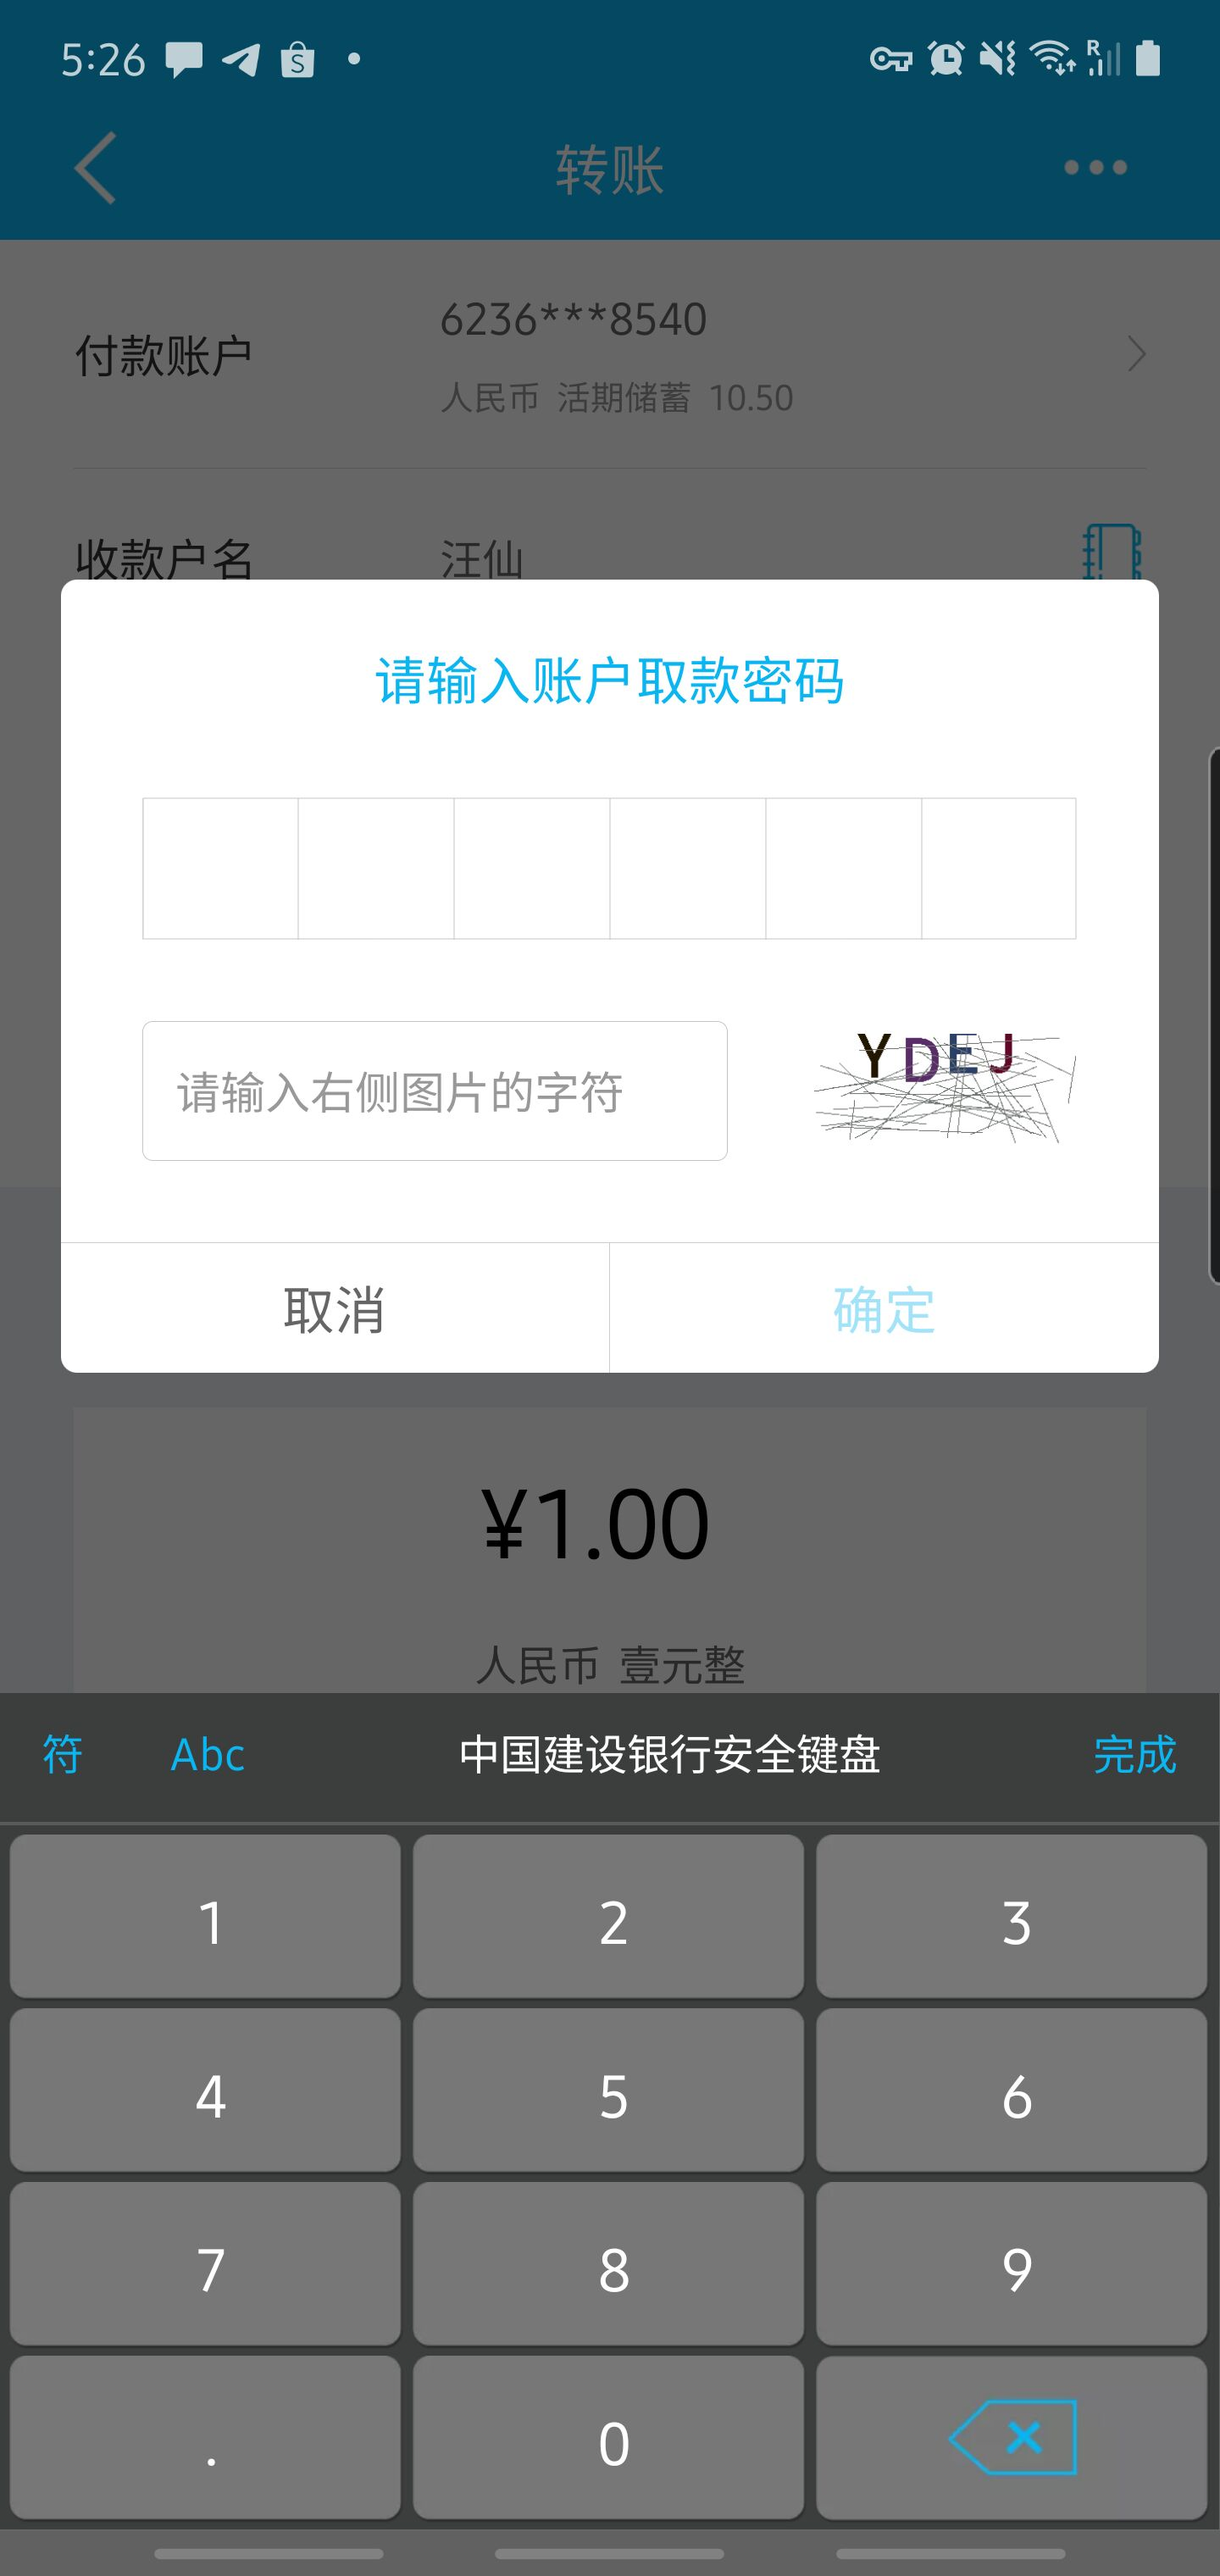
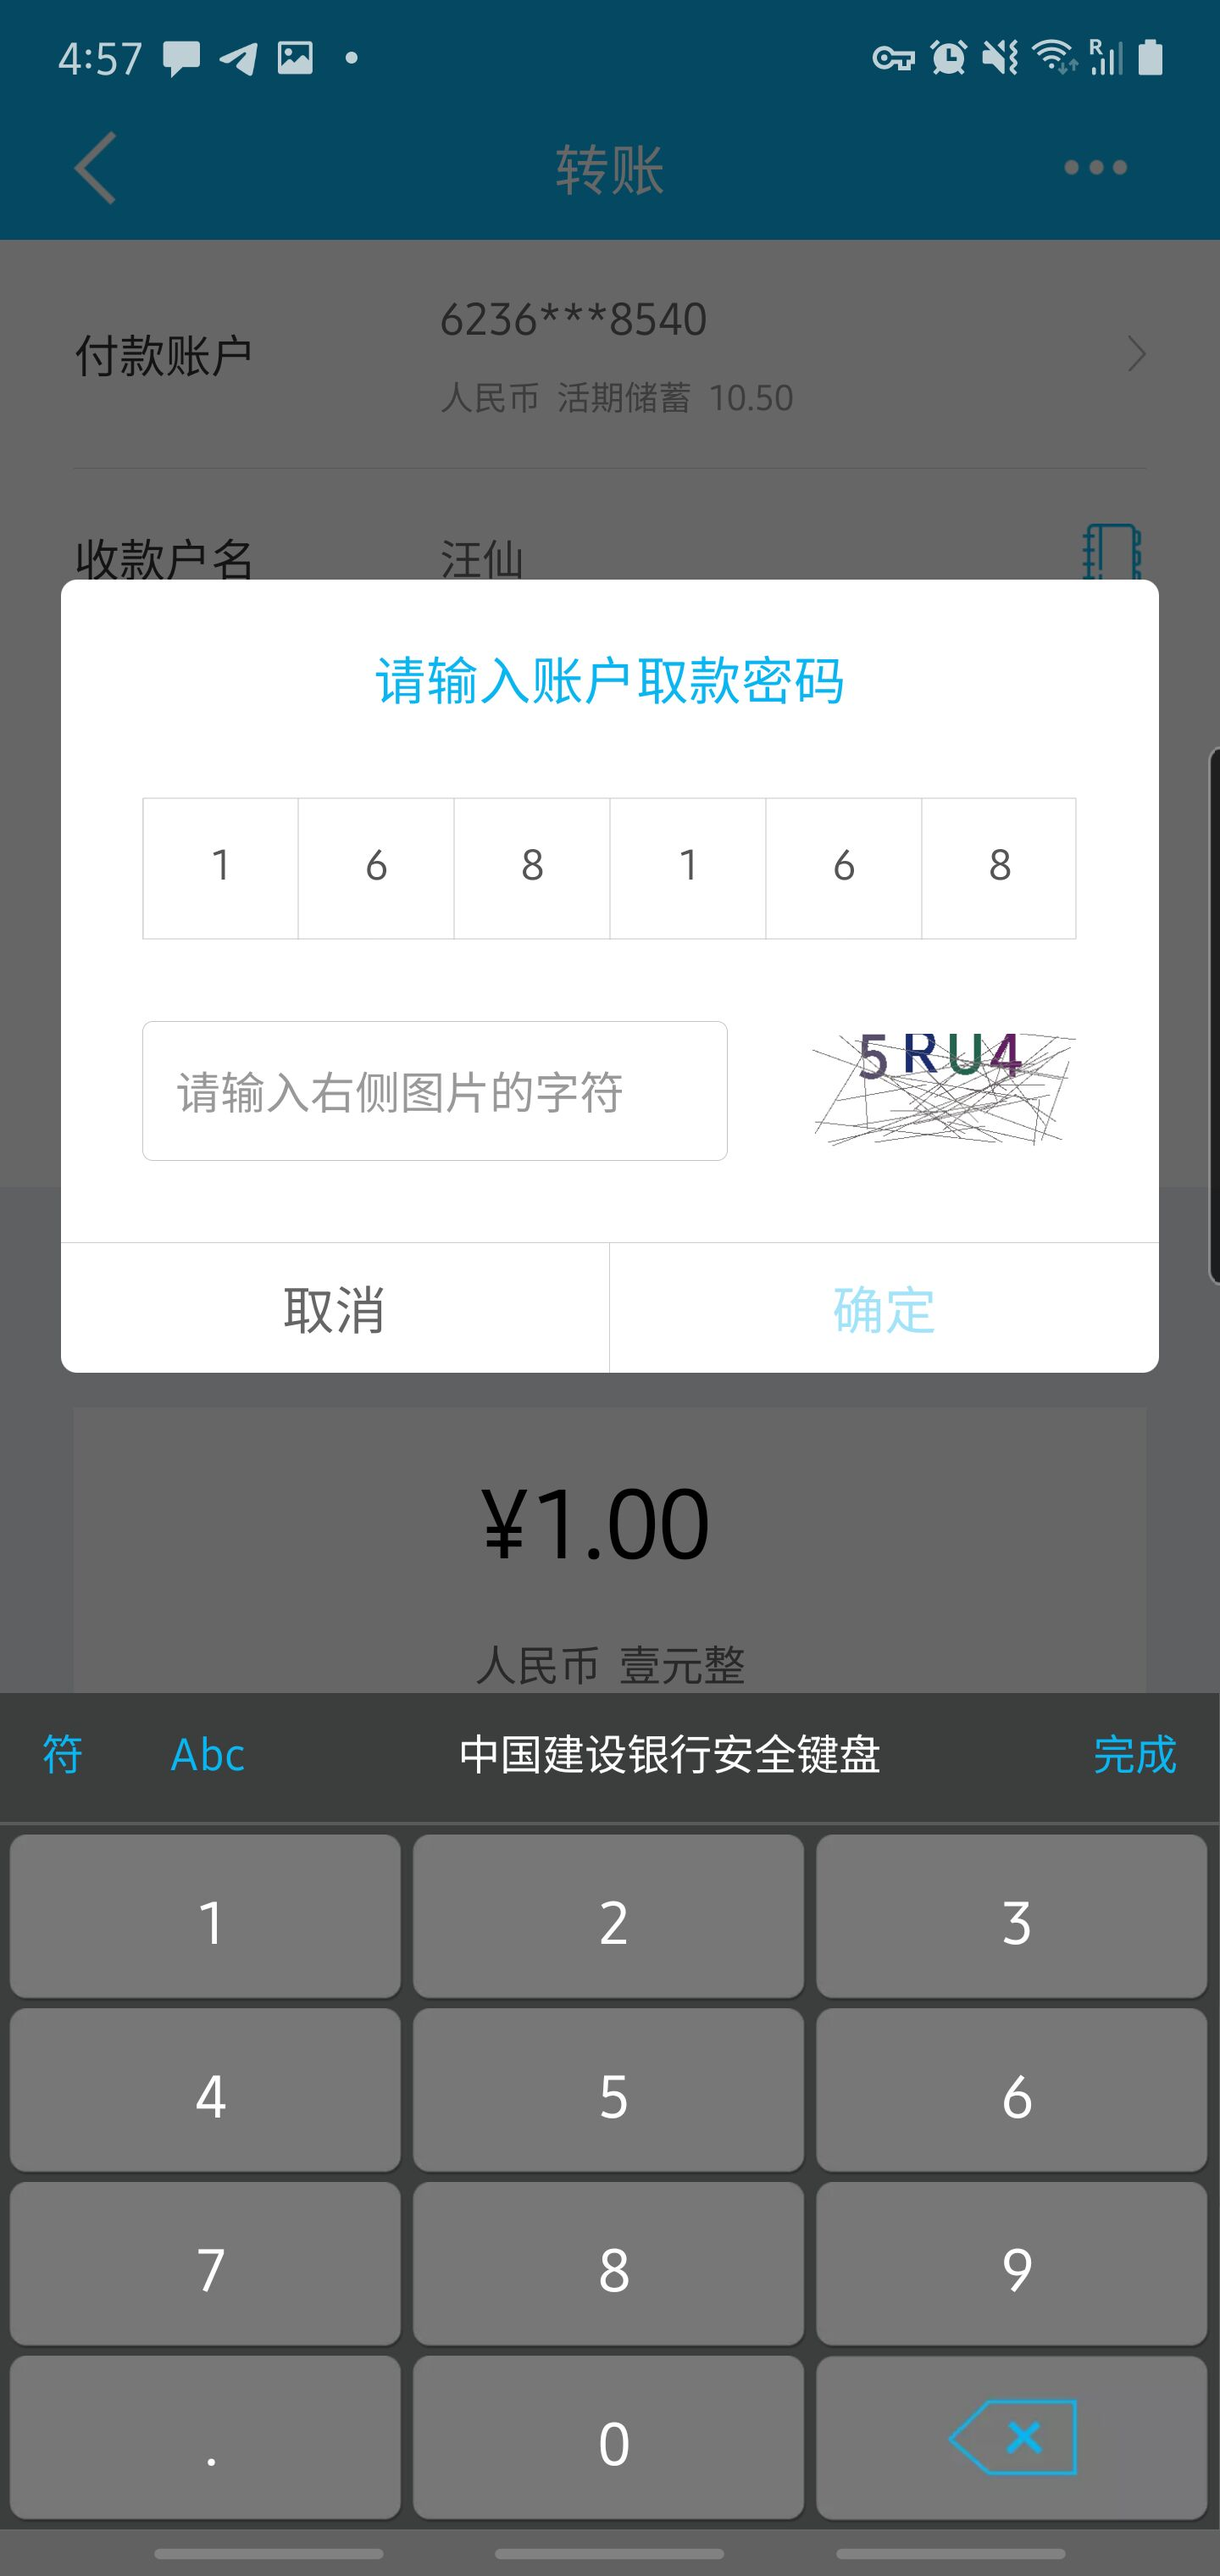
pc ok

diff --git a/bots/ccb.py b/bots/ccb.py
@@ -2,12 +2,12 @@
 import time
 import sys
 from bots.verification.verification_code import VerificationCode
+
 sys.path.append("..")
 from models import Account, Transferee
 
 package = 'com.chinamworld.main'
 activity = 'com.ccb.start.MainActivity'
-
 
 # def connect():
 #     connection = u2.connect('0.0.0.0')
@@ -18,61 +18,71 @@ activity = 'com.ccb.start.MainActivity'
 acc = Account()
 trans = Transferee()
 
+
 def start(self):
-    runComponent = package + '/' + activity
+    # runComponent = package + '/' + activity
     self.app_start(package)
     return self.app_wait(package)  # 等待应用运行, return pid(int)
 
 
 def transfer(self, amount, account, name, bank_name, password, withdraw_password):
     # 转账
-    waitRes = self.wait_activity(activity, timeout=20)
-    acc.login_pwd = password
-    acc.payment_pwd = withdraw_password
-    trans.amount = amount
-    trans.account = account
-    trans.name = name
-    trans.bank_name = bank_name
-    print('waitRes %s' % waitRes)
-    if waitRes:
-        self(resourceId="com.chinamworld.main:id/close").click_exists(timeout=3.0)
-        self(resourceId="com.chinamworld.main:id/main_home_smart_transfer").click()
-        waitTransferHomeAct = self.wait_activity("com.ccb.transfer.transfer_home.view.TransferHomeAct", timeout=20)
+    def do_trans():
+        waitRes = self.wait_activity(activity, timeout=20)
+        acc.login_pwd = password
+        acc.payment_pwd = withdraw_password
+        trans.amount = amount
+        trans.account = account
+        trans.name = name
+        trans.bank_name = bank_name
+        print('waitRes %s' % waitRes)
+        if waitRes:
+            self(resourceId="com.chinamworld.main:id/close").click_exists(timeout=3.0)
+            self(resourceId="com.chinamworld.main:id/main_home_smart_transfer").click()
+            waitTransferHomeAct = self.wait_activity("com.ccb.transfer.transfer_home.view.TransferHomeAct", timeout=20)
 
-        if waitTransferHomeAct:
-            self.xpath(
-                '//*[@resource-id="com.chinamworld.main:id/grid_function"]/android.widget.LinearLayout[1]').click()
-            LoginActivity = self.wait_activity("com.ccb.framework.security.login.internal.view.LoginActivity",
-                                               timeout=20)
-            if LoginActivity:
-                self(resourceId="com.chinamworld.main:id/et_password").click()
-                # self.send_keys("aa168168", clear=True)
-                for i in acc.login_pwd:
-                    self(text=i).click()
-                self(resourceId="com.chinamworld.main:id/btn_confirm").click_gone(maxretry=10, interval=1.0)
-                SmartTransferMainAct = self.wait_activity("com.ccb.transfer.smarttransfer.view.SmartTransferMainAct",
-                                                          timeout=20)
-                if SmartTransferMainAct:
-                    self(resourceId="com.chinamworld.main:id/et_cash_name").click()
-                    self(resourceId="com.chinamworld.main:id/et_cash_name").set_text(trans.name)
-                    self(resourceId="com.chinamworld.main:id/et_collection_account").click()
-                    self(resourceId="com.chinamworld.main:id/et_collection_account").set_text(trans.account)
-                    self(resourceId="com.chinamworld.main:id/tv_bank").click()
-                    self(resourceId="com.chinamworld.main:id/tv_bank").click()
+            if waitTransferHomeAct:
+                self.xpath(
+                    '//*[@resource-id="com.chinamworld.main:id/grid_function"]/android.widget.LinearLayout[1]').click()
+                LoginActivity = self.wait_activity("com.ccb.framework.security.login.internal.view.LoginActivity",
+                                                   timeout=20)
+                if LoginActivity:
+                    self(resourceId="com.chinamworld.main:id/et_password").click()
+                    # self.send_keys("aa168168", clear=True)
+                    for i in acc.login_pwd:
+                        self(text=i).click()
+                    self(resourceId="com.chinamworld.main:id/btn_confirm").click_gone(maxretry=10, interval=1.0)
+                    SmartTransferMainAct = self.wait_activity(
+                        "com.ccb.transfer.smarttransfer.view.SmartTransferMainAct",
+                        timeout=20)
+                    if SmartTransferMainAct:
+                        self(resourceId="com.chinamworld.main:id/et_cash_name").click()
+                        self(resourceId="com.chinamworld.main:id/et_cash_name").set_text(trans.name)
+                        self(resourceId="com.chinamworld.main:id/et_collection_account").click()
+                        self(resourceId="com.chinamworld.main:id/et_collection_account").set_text(trans.account)
+                        self(resourceId="com.chinamworld.main:id/tv_bank").click()
+                        self(resourceId="com.chinamworld.main:id/tv_bank").click()
 
-                    if self(text="热门银行").exists(timeout=20):
-                        bank_btn = self(resourceId="com.chinamworld.main:id/title", text=trans.bank_name)
-                        if bank_btn.click_gone(maxretry=20, interval=1.0):
-                            self(resourceId="com.chinamworld.main:id/tv_transfer_way").click()
-                            if self(text="实时转账").exists(timeout=20):
-                                self(resourceId="com.chinamworld.main:id/bottom_selector_tv", text="实时转账").click()
-                                self(resourceId="com.chinamworld.main:id/et_tran_amount").click()
-                                self.send_keys(trans.amount, clear=True)
-                                self.press("back")
-                                self(resourceId="com.chinamworld.main:id/rl_tran_mark").click()
-                                self.send_keys("今天发的1元钱", clear=True)
-                                self.press("back")
-                                self(resourceId="com.chinamworld.main:id/btn_right1").click()
+                        if self(text="热门银行").exists(timeout=20):
+                            bank_btn = self(resourceId="com.chinamworld.main:id/title", text=trans.bank_name)
+                            if bank_btn.click_gone(maxretry=20, interval=1.0):
+                                self(resourceId="com.chinamworld.main:id/tv_transfer_way").click()
+                                if self(text="实时转账").exists(timeout=20):
+                                    self(resourceId="com.chinamworld.main:id/bottom_selector_tv", text="实时转账").click()
+                                    self(resourceId="com.chinamworld.main:id/et_tran_amount").click()
+                                    self.send_keys(trans.amount, clear=True)
+                                    self.press("back")
+                                    self(resourceId="com.chinamworld.main:id/rl_tran_mark").click()
+                                    self.send_keys("今天发的1元钱", clear=True)
+                                    self.press("back")
+                                    self(resourceId="com.chinamworld.main:id/btn_right1").click()
+
+    if self(text="是否需要向银行卡").exists(timeout=5):
+        float_win = self(resourceId="com.chinamworld.main:id/btn_cancel").click_gone(maxretry=10, interval=1.0)
+        if float_win:
+            do_trans()
+    else:
+        do_trans()
 
 
 def inquire_balance(self, password):
@@ -102,22 +112,38 @@ def post_sms(self, sms):
     self.send_keys(sms, clear=True)
     self(resourceId="com.chinamworld.main:id/btn_confirm").click()
     if self(resourceId="com.chinamworld.main:id/native_graph_iv").exists(timeout=20):
-        # self(resourceId="com.chinamworld.main:id/et_code").click()
-        # self.send_keys(acc.payment_pwd, clear=True)
-        def get_code():
-            time.sleep(1)
-            self.screenshot("verification.jpg")
-            vc = VerificationCode()
-            return vc.image_str()
 
-        code = get_code()
-        while get_code() == "":
-            get_code()
-        print(code)
-        # self(resourceId="com.chinamworld.main:id/native_graph_iv").click()
-        # self.send_keys(code, clear=True)
-        # self(resourceId="com.chinamworld.main:id/btn_confirm").click()
-    # return 0
+        def put_code():
+            def get_code():
+                time.sleep(1)
+                self(resourceId="com.chinamworld.main:id/native_graph_iv").click()
+                time.sleep(1)
+                info = self(resourceId="com.chinamworld.main:id/native_graph_iv").info
+                x = info['bounds']['left']
+                y = info['bounds']['top']
+                self.screenshot("verification.jpg")
+                vc = VerificationCode(x, y, 313, 165)
+                return vc.image_str()
+
+            code = get_code()
+            while code == "":
+                time.sleep(3)
+                code = get_code()
+            print(code)
+            time.sleep(2)
+            self(resourceId="com.chinamworld.main:id/native_graph_et").click()
+            self(resourceId="com.chinamworld.main:id/default_row_two_1").click()
+            self.send_keys(code, clear=True)
+            time.sleep(2)
+            self(resourceId="com.chinamworld.main:id/et_code").click()
+            self.send_keys(acc.payment_pwd, clear=True)
+
+            if self(resourceId="com.chinamworld.main:id/btn_confirm").click_gone(maxretry=10, interval=1.0):
+                return 0
+            else:
+                put_code()
+
+        put_code()
 
 
 def stop(self):

diff --git a/bots/verification/verification_code.py b/bots/verification/verification_code.py
@@ -1,3 +1,4 @@
+# coding: utf-8
 import re  # 用于正则
 
 from PIL import Image  # 用于打开图片和对图片处理
@@ -21,14 +22,19 @@ class VerificationCode:
         self.height = height
 
     def get_pictures(self):
-        page_snap_obj = Image.open('../../verification.jpg')
+        page_snap_obj = Image.open('verification.jpg')
+        # page_snap_obj = Image.open('pictures.jpg')
         time.sleep(1)
         # location = img.location
         # size = img.size  # 获取验证码的大小参数
-        left = 959
-        top = 1205
-        right = left + 313
-        bottom = top + 165
+        # left = 959
+        # top = 1205
+        # right = left + 313
+        # bottom = top + 165
+        left = self.x
+        top = self.y
+        right = left + self.width
+        bottom = top + self.height
         image_obj = page_snap_obj.crop((left, top, right, bottom))  # 按照验证码的长宽，切割验证码
         image_obj.show()  # 打开切割后的完整验证码
         # self.driver.close()  # 处理完验证码后关闭浏览器
@@ -38,45 +44,21 @@ class VerificationCode:
         image_obj = self.get_pictures()  # 获取验证码
         img = image_obj.convert("L")  # 转灰度
         # ret, img = cv2.threshold(np.array(img), 125, 255, cv2.THRESH_BINARY)
-        # Bigdata = img.load()
-        # w, h = img.size
-        # threshold = 160
-        # # 遍历所有像素，大于阈值的为黑色
-        # for y in range(h):
-        #     for x in range(w):
-        #         if Bigdata[x, y] < threshold:
-        #             Bigdata[x, y] = 0
-        #         else:
-        #             Bigdata[x, y] = 255
-        # img.show()
-        # STEP 2
-        # sdk = muggle_ocr.SDK(model_type=muggle_ocr.ModelType.OCR)
-        # root_dir = r"./imgs"
-        # for i in os.listdir(root_dir):
-        #     n = os.path.join(root_dir, i)
-        #     with open(n, "rb") as f:
-        #         b = f.read()
-        #     st = time.time()
-        #     # STEP 3
-        #     text = sdk.predict(image_bytes=b)
-        #     print(i, text, time.time() - st)
-        #     # STEP 3
-        #     img = sdk.predict(image_bytes=b)
-        #     print(i, text, time.time() - st)
-        #     print(img)
+        Bigdata = img.load()
+        w, h = img.size
+        threshold = 120
+        # 遍历所有像素，大于阈值的为黑色
+        for y in range(h):
+            for x in range(w):
+                if Bigdata[x, y] < threshold:
+                    Bigdata[x, y] = 0
+                else:
+                    Bigdata[x, y] = 255
+        img.show()
         return img
 
     def delete_spot(self):
         images = self.processing_image()
-        # threshold = 150
-        # table = []
-        #
-        # for i in range(256):
-        #     if i < threshold:
-        #         table.append(0)
-        #     else:
-        #         table.append(1)
-        #     images = images.point(table, "1")
         data = images.getdata()
         w, h = images.size
         black_point = 0
@@ -104,15 +86,14 @@ class VerificationCode:
         return images
 
     def image_str(self):
-        image = self.processing_image()
+        image = self.delete_spot()
         # pytesseract.pytesseract.tesseract_cmd = r"/usr/local/bin/tesseract"  # 设置pyteseract路径
-        # result = pytesseract.image_to_string(image, lang="eng")  # 图片转文字
-        # result = pytesseract.image_to_string(image, lang='eng')
-        # print(result)
-        # resultj = re.sub(u"([^\u4e00-\u9fa5\u0030-\u0039\u0041-\u005a\u0061-\u007a])", "", result)  # 去除识别出来的特殊字符
-        # result_four = resultj[0:4]  # 只获取前4个字符
-        # print(resultj)  # 打印识别的验证码
-        return image
+        result = pytesseract.image_to_string(image, lang="eng")  # 图片转文字
+        print(result)
+        results = re.sub(u"([^\u4e00-\u9fa5\u0030-\u0039\u0041-\u005a\u0061-\u007a])", "", result)  # 去除识别出来的特殊字符
+        result_four = results[0:4]  # 只获取前4个字符
+        print(result_four)  # 打印识别的验证码
+        return result_four
 
 
 if __name__ == '__main__':

diff --git a/gateway.py b/gateway.py
@@ -30,7 +30,7 @@ def check():
         app.logger.info(res)
 
     except ConnectionRefusedError:
-        res = {'code': 2, 'msg': 'atx未启动，请先插上usb线，运行电脑脚本'}
+        res = {'code': 2, 'msg': 'atx未启动，请先插上usb线，运行电脑脚本！'}
     return json.dumps(res)
 
 
@@ -51,7 +51,7 @@ def register():
             app.logger.info(res)
 
         except ConnectionRefusedError:
-            res = {'code': 2, 'msg': 'atx未启动，请先插上usb线，运行电脑脚本'}
+            res = {'code': 2, 'msg': 'atx未启动，请先插上usb线，运行电脑脚本！'}
         return res
 
 
